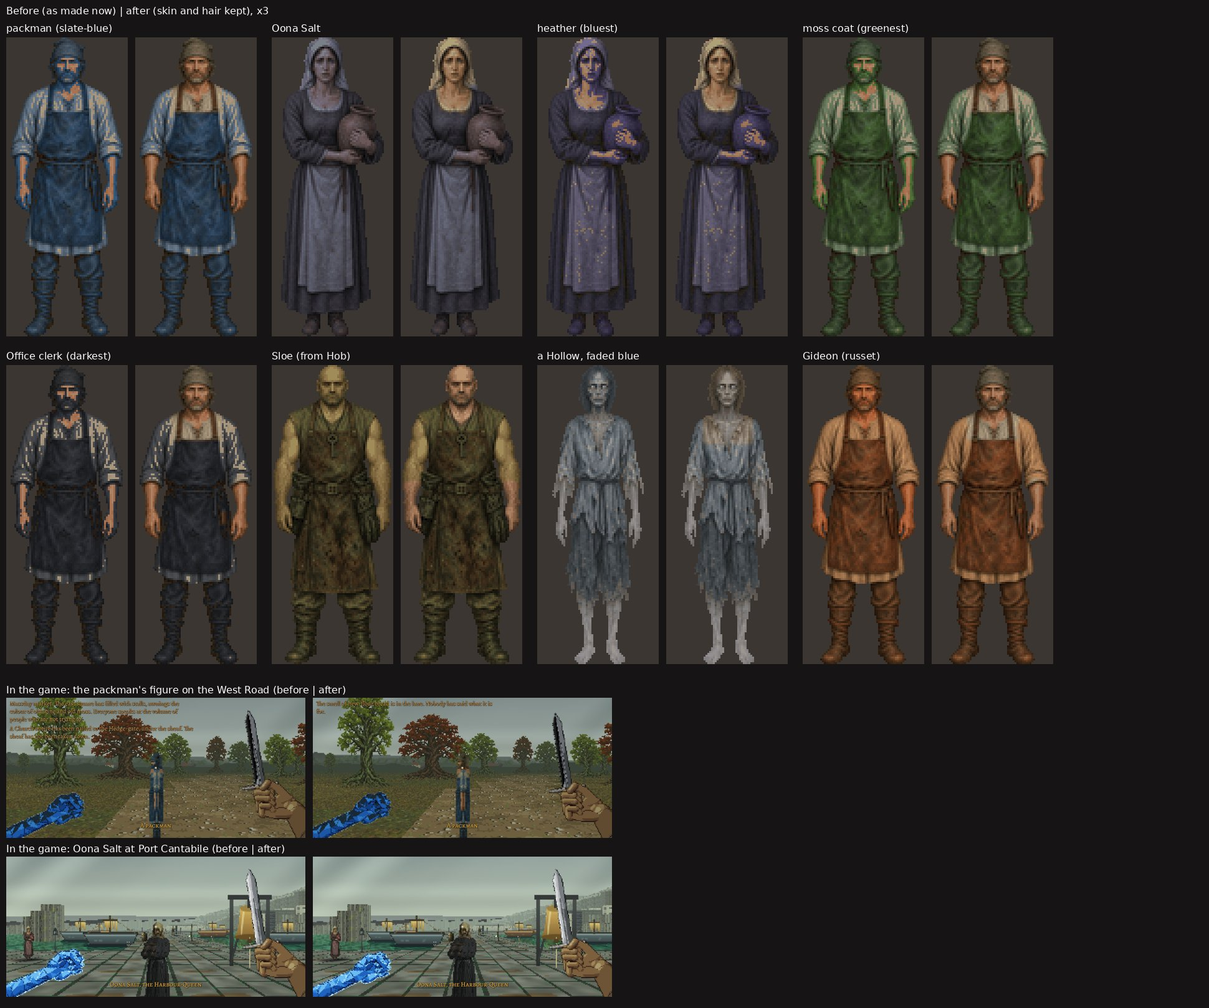
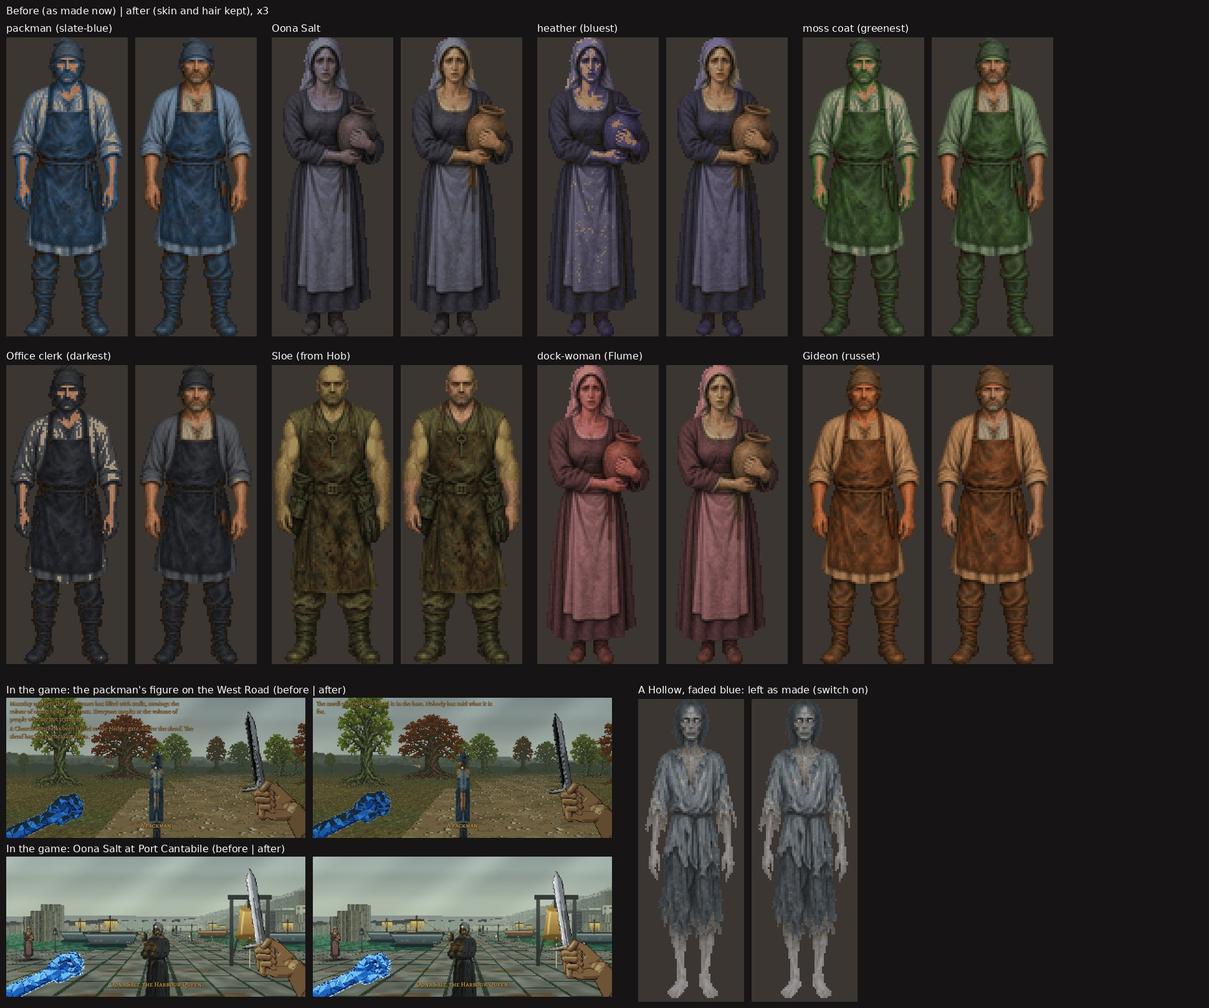
Phase 124b, second round: the Hollows left alone, headwear dyed, the jar keeps its clay, no spared specks
Claude-Session: https://claude.ai/code/session_01UK584LzooQWiw2H2iZPqku

diff --git a/js/faces124.js b/js/faces124.js
@@ -7,9 +7,9 @@
 //  and js/kestrel16.js (Pennick). A tint over the whole painting turned faces blue, green or grey. Each maker now hands
 //  its recoloured pixels to FACES124.skin(srcSprite, data) before adding the sprite: the head (face, hair and what is
 //  worn on it) and the bare skin below it (hands, arms, legs: the painting's own flesh tones, measured from its face)
-//  keep the source painting's colours; the cloth keeps its tint. A thing held in the hand whose colour is flesh-warm
-//  (the townswoman's clay jar) keeps its own colour too; leather of the same warm tone (a belt, an apron) may stay; cloth
-//  never does. The mask is measured once per source painting and reused by every recolour of it.
+//  keep the source painting's colours (the face and the hair; a kerchief or cap is dyed with the cloth); the cloth keeps
+//  its tint, whole. The townswoman's clay jar keeps its clay. The Hollows' recolours (a state of the whole figure, not
+//  dyed cloth) are left exactly as made. The mask is measured once per source painting and reused by every recolour of it.
 //  Switch: GFX.keepSkin, Options > Graphics "Recoloured people keep their skin", on by default, off in Original
 //  (PRESETS.keep). Off, every sprite is byte for byte what its maker made: the maker's own pixels are kept, and the
 //  switch swaps them back in place. Nothing here uses Math.random.
@@ -40,7 +40,16 @@ const FACES124 = (function () {
 
   // ---------------------------------------------------------------- the figure's head and its flesh, measured once
   const MASKS = new WeakMap();
+  // carried things that are plainly not cloth, by source painting: [x0, y0, x1, y1] in its pixels, and their tones
+  // the face's oval, by source painting (centre and radii in its pixels): measured on the paintings, from the cap's brim or
+  // the kerchief's edge to the chin; Hob is bald, so his is the whole head
+  const FACE = { townsman: { c: [30, 20], r: [8.5, 7] }, townswoman: { c: [24.5, 16], r: [8.5, 10.5] }, hob: { c: [25.5, 12], r: [9, 13] } };
+  const CARRIED = { townswoman: { box: [22, 32, 54, 78], hue: 22, hueR: 22, sMin: 0.26, lMin: 0.1, lMax: 0.72 } };   // her clay jar
+  // a recolour of one of these is a state of the whole person (the Hollows: faded, grey-blue), not dyed cloth: left alone
+  const STATE_SOURCES = ['hollow'];
+  function nameOf(sp) { try { if (typeof Engine !== 'undefined' && Engine.sprites) for (const k of Object.keys(Engine.sprites)) { const o = Engine.sprites[k]; if (o && o.data === sp.data) return k; } } catch (e) { /* none */ } return null; }
   function measure(sp) {
+    const name = nameOf(sp);
     const w = sp.w, h = sp.h, d = sp.data, A = (i) => d[i] >>> 24;
     let top = -1, bot = -1;
     for (let y = 0; y < h; y++) for (let x = 0; x < w; x++) if (A(y * w + x) >= 128) { if (top < 0) top = y; bot = y; break; }
@@ -74,6 +83,14 @@ const FACES124 = (function () {
     // Hollow) keeps its head and neck only: its maker already leaves grey alone, and its grey rags match grey skin.
     // (A held thing is not kept: tried, a rule for "warmer than skin, at the hands" kept the townsman's leather apron
     // in blotches and still missed the townswoman's jar, so the jar takes its owner's tint as before.)
+    // the head keeps its face (flesh) and its hair, brows and beard (darker than the lit skin, and brown), below the
+    // top third of the head where a cap sits; the kerchief or cap round them takes the dye with the rest of the cloth
+    const hairY = top + (neckY - top) * 0.3;
+    const isHair = (v) => { const c = hsl(v & 255, (v >> 8) & 255, (v >> 16) & 255); return c[2] < F.lLo + 0.02 && c[2] > 0.04 && c[1] >= 0.12 && hueDist(c[0], hue) <= 28; };   // brown: the cap's grey-green folds and the kerchief's grey shadows are not
+    // In these paintings the kerchief and the cap share the skin's hue, saturation and lightness, so colour cannot part
+    // them: where the face's oval has been measured on the painting (FACE), the oval is kept, every pixel of it (face,
+    // brows, beard and the hair framing it), and the head-cloth round it is dyed. Elsewhere, flesh and brown hair by tone.
+    const FO = name && Object.prototype.hasOwnProperty.call(FACE, name) ? FACE[name] : null;
     let rig = null; try { if (typeof PAINTFOLK !== 'undefined' && PAINTFOLK.autorig) rig = PAINTFOLK.autorig(sp); } catch (e) { rig = null; }
     const J = rig && rig.J ? rig.J : { elbowR: [hx - headW, top + H * 0.36], handR: [hx - headW, top + H * 0.52], elbowL: [hx + headW, top + H * 0.36], handL: [hx + headW, top + H * 0.52] };
     const segD = (px, py, a, b) => { const vx = b[0] - a[0], vy = b[1] - a[1], L2 = vx * vx + vy * vy || 1, t = Math.max(0, Math.min(1, ((px - a[0]) * vx + (py - a[1]) * vy) / L2)); return Math.hypot(px - a[0] - t * vx, py - a[1] - t * vy); };
@@ -82,9 +99,10 @@ const FACES124 = (function () {
     const nearHand = (x, y) => Math.hypot(x - J.handR[0], y - J.handR[1]) <= handR || Math.hypot(x - J.handL[0], y - J.handL[1]) <= handR;
     const seed = new Uint8Array(w * h);
     for (let y = 0; y < h; y++) for (let x = 0; x < w; x++) { const i = y * w + x; if (A(i) < 128) continue;
-      if (y <= neckY) { seed[i] = 1; continue; }
       const v = d[i];
-      if (isFlesh(v) && ((y <= yNeck && Math.abs(x - hx) <= headW * 0.6) || (!F.grey && (nearHand(x, y) || segD(x, y, foreR, J.handR) <= armR || segD(x, y, foreL, J.handL) <= armR)))) seed[i] = 1;
+      if (FO) { const ex = (x - FO.c[0]) / FO.r[0], ey = (y - FO.c[1]) / FO.r[1]; if (ex * ex + ey * ey <= 1) { seed[i] = 1; continue; } if (y <= neckY) continue; }
+      else if (y <= neckY) { if (isFlesh(v) || (y >= hairY && Math.abs(x - hx) <= headW * 0.6 && isHair(v))) seed[i] = 1; continue; }
+      if (isFlesh(v) && ((y <= yNeck && Math.abs(x - hx) <= headW * 0.35) || (!F.grey && (nearHand(x, y) || segD(x, y, foreR, J.handR) <= armR || segD(x, y, foreL, J.handL) <= armR)))) seed[i] = 1;
     }
     const seen = new Uint8Array(w * h), stack = [];
     const comps = (mark, keep) => { seen.fill(0); for (let i = 0; i < w * h; i++) {
@@ -95,12 +113,24 @@ const FACES124 = (function () {
       keep(comp);
     } };
     comps(seed, (comp) => { if (comp.length < 4) for (const j of comp) seed[j] = 0; });
+    // a thing carried that is plainly not cloth keeps the painting's colour: its own tones inside the box where it sits,
+    // the biggest clump there (CARRIED, measured on the painting)
+    let carried = null; const C = name && Object.prototype.hasOwnProperty.call(CARRIED, name) ? CARRIED[name] : null;
+    if (C) { carried = new Uint8Array(w * h); const mark = new Uint8Array(w * h);
+      for (let y = C.box[1]; y <= C.box[3] && y < h; y++) for (let x = C.box[0]; x <= C.box[2] && x < w; x++) { const i = y * w + x; if (A(i) < 128) continue; const v = d[i], c = hsl(v & 255, (v >> 8) & 255, (v >> 16) & 255);
+        if (hueDist(c[0], C.hue) <= C.hueR && c[1] >= C.sMin && c[2] >= C.lMin && c[2] <= C.lMax) mark[i] = 1; }
+      let best = null; seen.fill(0);
+      for (let i = 0; i < w * h; i++) { if (!mark[i] || seen[i]) continue; const comp = []; stack.push(i); seen[i] = 1;
+        while (stack.length) { const j = stack.pop(); comp.push(j); const x = j % w, y = (j / w) | 0; for (let dy = -1; dy <= 1; dy++) for (let dx = -1; dx <= 1; dx++) { const xx = x + dx, yy = y + dy; if (xx < 0 || yy < 0 || xx >= w || yy >= h) continue; const k = yy * w + xx; if (mark[k] && !seen[k]) { seen[k] = 1; stack.push(k); } } }
+        if (!best || comp.length > best.length) best = comp; }
+      if (best && best.length >= 60) for (const j of best) { carried[j] = 1; seed[j] = 1; } else carried = null;
+    }
     // grown by one pixel and smoothed (3 by 3), so no fringe of tinted pixels is left round a face or at a cuff
     const grown = new Float32Array(w * h);
     for (let y = 0; y < h; y++) for (let x = 0; x < w; x++) { let m = 0; for (let dy = -1; dy <= 1 && !m; dy++) for (let dx = -1; dx <= 1; dx++) { const xx = x + dx, yy = y + dy; if (xx >= 0 && yy >= 0 && xx < w && yy < h && seed[yy * w + xx]) { m = 1; break; } } grown[y * w + x] = m; }
     const wt = new Float32Array(w * h);
     for (let y = 0; y < h; y++) for (let x = 0; x < w; x++) { let s = 0, c = 0; for (let dy = -1; dy <= 1; dy++) for (let dx = -1; dx <= 1; dx++) { const xx = x + dx, yy = y + dy; if (xx < 0 || yy < 0 || xx >= w || yy >= h) continue; s += grown[yy * w + xx] * (dx || dy ? 1 : 2); c += dx || dy ? 1 : 2; } wt[y * w + x] = seed[y * w + x] ? 1 : Math.min(1, (s / c) * 1.5); }
-    return { w, h, top, bot, neckY, hx, headW, flesh: F, isFlesh, seed, wt, hands: [J.handR, J.handL], holding };
+    return { w, h, top, bot, neckY, hx, headW, flesh: F, isFlesh, isHair, seed, wt, carried, faceOval: FO, hands: [J.handR, J.handL], holding };
   }
   // keyed by the pixels, not the sprite: a painting that arrives later replaces a sprite's pixels, and is measured afresh
   function maskOf(sp) { if (!sp || !sp.data) return null; let m = MASKS.get(sp.data); if (m === undefined) { const t0 = now(); try { m = measure(sp); } catch (e) { warnOnce('measure', e); m = null; } stats.ms += now() - t0; stats.masks++; MASKS.set(sp.data, m); } return m; }
@@ -113,7 +143,7 @@ const FACES124 = (function () {
   const REG = [];
   function keptOf(e) {
     if (e.kept) return e.kept;
-    const m = maskOf(e.from), out = new Uint32Array(e.tinted);
+    const m = maskOf(e.from), out = new Uint32Array(e.base);
     if (m && m.w === e.from.w && m.h === e.from.h) {
       const s = e.from.data;
       for (let i = 0; i < out.length; i++) { const k = m.wt[i]; if (k <= 0) continue; const a = out[i] >>> 24; if (!a) continue; const p = out[i], q = s[i];
@@ -123,11 +153,15 @@ const FACES124 = (function () {
     }
     return (e.kept = out);
   }
-  function skin(src, data, name) {
+  // whole (optional): the maker's tint with nothing spared by colour (js/life60.js spares flesh-coloured pixels by colour,
+  // which left orange specks in the cloth); used as the cloth when the switch is on. data stays the maker's own when off.
+  function skin(src, data, name, whole) {
     try {
       if (!src || !src.data || !data || data.length !== src.data.length) return data;
+      if (typeof Engine !== 'undefined' && Engine.sprites && STATE_SOURCES.some((k) => Engine.sprites[k] === src)) return data;
       const t0 = now();
-      const e = { src, from: { w: src.w, h: src.h, data: src.data }, data, tinted: new Uint32Array(data), kept: null, name: name || null };   // the pixels the maker read
+      const e = { src, from: { w: src.w, h: src.h, data: src.data }, data, tinted: new Uint32Array(data), kept: null, name: name || null };
+      e.base = whole && whole.length === data.length ? new Uint32Array(whole) : e.tinted;   // the pixels the maker read
       REG.push(e); stats.recolours++;
       e.isKept = on(); if (e.isKept) data.set(keptOf(e));
       stats.applyMs += now() - t0;
@@ -180,6 +214,6 @@ const FACES124 = (function () {
   }
   try { wireRow(); } catch (e) { warnOnce('wire', e); }
 
-  return { FLAG, ROW, skin, maskOf, hsl, hueDist, on, sync, recolours: () => REG.map((e) => ({ name: e.name, src: e.src, from: e.from, data: e.data, tinted: e.tinted })), stats: () => Object.assign({}, stats) };
+  return { FLAG, ROW, skin, maskOf, hsl, hueDist, on, sync, recolours: () => REG.map((e) => ({ name: e.name, src: e.src, from: e.from, data: e.data, tinted: e.tinted, base: e.base })), stats: () => Object.assign({}, stats) };
 })();
 if (typeof window !== 'undefined') window.FACES124 = FACES124;

diff --git a/tools/dev/skin124-sheet.js b/tools/dev/skin124-sheet.js
@@ -2,7 +2,7 @@
 // own pixels, and the kept skin) and two in-game frames each way to the folder given. Run through browser.sh.
 const { chromium } = require('/opt/npm-tools/node_modules/playwright');
 const fs = require('fs'), path = require('path');
-const FIGS = ['p60_man_a', 'p17c_oona', 'p60_wom_c', 'p60_man_b', 'p61_clerk', 'p17c_sloe', 'p62_hollow_b', 'p22_gideon'];
+const FIGS = ['p60_man_a', 'p17c_oona', 'p60_wom_c', 'p60_man_b', 'p61_clerk', 'p17c_sloe', 'p16f_dockwoman', 'p22_gideon', 'p62_hollow_b'];
 (async () => {
   const OUT = process.argv[2] || '/home/claude/army124/F/shots/skin'; fs.mkdirSync(OUT, { recursive: true });
   const browser = await chromium.launch({ headless: true, args: ['--no-sandbox'] });
@@ -20,7 +20,7 @@ const FIGS = ['p60_man_a', 'p17c_oona', 'p60_wom_c', 'p60_man_b', 'p61_clerk', '
     G.day = 4; G.tod = 0.5; tryLoad('oakhaven'); for (const id of ['cantabile_harbour', 'flume_landing', 'whispergrove', 'p22_combe', 'oakhaven']) tryLoad(id);
     G.day = 3; tryLoad('oakhaven'); const reg = FACES124.recolours(), png = (w, h, data) => { const c = document.createElement('canvas'); c.width = w; c.height = h; c.getContext('2d').putImageData(new ImageData(new Uint8ClampedArray(data.buffer.slice(0)), w, h), 0, 0); return c.toDataURL('image/png'); };
     const out = {};
-    for (const n of FIGS) { const sp = Engine.sprites[n]; if (!sp) continue; const e = reg.find((x) => x.data === sp.data); out[n] = { before: png(sp.w, sp.h, e.tinted), after: png(sp.w, sp.h, sp.data) }; }
+    for (const n of FIGS) { const sp = Engine.sprites[n]; if (!sp) continue; const e = reg.find((x) => x.data === sp.data); out[n] = { before: png(sp.w, sp.h, e ? e.tinted : sp.data), after: png(sp.w, sp.h, sp.data) }; /* not helped (the Hollows): as made */ }
     return out;
   }, FIGS);
   for (const [n, v] of Object.entries(figs)) for (const k of ['before', 'after']) fs.writeFileSync(path.join(OUT, n + '_' + k + '.png'), Buffer.from(v[k].split(',')[1], 'base64'));

diff --git a/test/skin124.test.js b/test/skin124.test.js
@@ -80,7 +80,8 @@ const STATES = [['p62_hollow_a', 30, 0.55, 0.92], ['p62_hollow_b', 205, 0.45, 0.
       for (let i = 0; i < src.data.length; i++) {
         const q = src.data[i]; if ((q >>> 24) < 200) continue; const y = (i / w) | 0, x = i % w, v = sp.data[i];
         if ((v >>> 24) < 100) continue;   // a maker may drop faint pixels: not a face pixel any more
-        if (y >= y0 && y < m.neckY && Math.abs(x - m.hx) <= m.headW * 0.28 && m.isFlesh(q)) { face++; if (!m.isFlesh(v)) faceBad++; }
+        const FO = m.faceOval, inFace = FO ? (((x - FO.c[0]) / FO.r[0]) ** 2 + ((y - FO.c[1]) / FO.r[1]) ** 2 <= 0.8) : (y >= y0 && y < m.neckY && Math.abs(x - m.hx) <= m.headW * 0.28);   // the face's measured oval where there is one
+        if (inFace && m.isFlesh(q)) { face++; if (!m.isFlesh(v)) faceBad++; }
         else if (y > m.neckY + H * 0.05 && m.seed[i] && m.isFlesh(q)) { hand++; if (!m.isFlesh(v)) handBad++; }
         else if (m.wt[i] === 0 && y <= m.neckY) { worn++; if (v !== base[i]) wornLost++; }   // the kerchief or cap: dyed with the rest
         else if (m.wt[i] === 0) { cloth++; if ((base[i] & 0xffffff) !== (q & 0xffffff)) clothChanged++; if (v !== base[i]) clothLost++; if ((v & 0xffffff) === (q & 0xffffff) && (base[i] & 0xffffff) !== (q & 0xffffff) && m.isFlesh(q)) specks++; }
@@ -163,7 +164,7 @@ const STATES = [['p62_hollow_a', 30, 0.55, 0.92], ['p62_hollow_b', 205, 0.45, 0.
   await step('the cost: measuring a source painting\'s mask is under 40 ms each, and all of them under 200 ms', async () => {
     const s = await page.evaluate(() => { for (const e of FACES124.recolours()) FACES124.maskOf(e.from); return FACES124.stats(); });
     console.log('  cost: ' + JSON.stringify(s));
-    assert.ok(s.masks >= 4 && s.ms / s.masks < 40 && s.ms < 200, JSON.stringify(s));
+    assert.ok(s.masks >= 3 && s.ms / s.masks < 40 && s.ms < 200, JSON.stringify(s));
   });
 
   await browser.close();

diff --git a/js/life60.js b/js/life60.js
@@ -50,16 +50,17 @@ const LIFE60 = (function () {
   function variant(src, dst, hueTo, satK, litK) {
     try {
       const s = Engine.sprites[src]; if (!s || Engine.sprites[dst]) return;
-      const d = new Uint32Array(s.data.length);
+      const d = new Uint32Array(s.data.length), all = typeof FACES124 !== 'undefined' ? new Uint32Array(s.data.length) : null;   // all: the tint with no flesh spared (Phase 124b)
       for (let i = 0; i < d.length; i++) {
-        const v = s.data[i], a = v >>> 24; if (!a) { d[i] = v; continue; }
+        const v = s.data[i], a = v >>> 24; if (!a) { d[i] = v; if (all) all[i] = v; continue; }
         const r = v & 255, g = (v >> 8) & 255, b = (v >> 16) & 255, [h, sa, l] = hsl(r, g, b);
         const skin = h >= 8 && h <= 42 && sa > 0.18 && sa < 0.75 && l > 0.42 && l < 0.86;
-        if (skin || l < 0.14 || sa < 0.08) { d[i] = v; continue; }
-        const [R, Gc, B] = rgb(hueTo, Math.min(1, sa * satK), Math.min(0.92, l * litK));
-        d[i] = (a << 24) | (B << 16) | (Gc << 8) | R;
+        if (l < 0.14 || sa < 0.08) { d[i] = v; if (all) all[i] = v; continue; }
+        if (skin && !all) { d[i] = v; continue; }
+        const [R, Gc, B] = rgb(hueTo, Math.min(1, sa * satK), Math.min(0.92, l * litK)), t = (a << 24) | (B << 16) | (Gc << 8) | R;
+        d[i] = skin ? v : t; if (all) all[i] = t;
       }
-      if (typeof FACES124 !== 'undefined') FACES124.skin(s, d, dst);   // Phase 124b: the skin and hair keep the painting's own colours
+      if (typeof FACES124 !== 'undefined') FACES124.skin(s, d, dst, all);   // Phase 124b: the skin and hair keep the painting's own colours
       Engine.addSprite(dst, Object.assign({}, s, { data: d }));
     } catch (e) { warnOnce('variant', e); }
   }

diff --git a/sw.js b/sw.js
@@ -18,7 +18,7 @@
 //
 // <precache:begin>
 // Generated by tools/pwa/precache.js from index.html and the asset folders. Do not edit by hand; run the tool.
-const BUILD = "671e558082d0";
+const BUILD = "c72a981eddc7";
 const MEDIA_BUILD = "2d9813dfeb89";
 const MEDIA_BYTES = 475230917;
 const CORE = [
@@ -243,7 +243,7 @@ const CORE = [
   "js/epigraphs73.js?v=2",
   "js/epilogue.js?v=33",
   "js/extras17.js?v=8",
-  "js/faces124.js?v=2",
+  "js/faces124.js?v=3",
   "js/far14.js?v=1",
   "js/feel88.js?v=4",
   "js/festivals12.js?v=4",
@@ -296,7 +296,7 @@ const CORE = [
   "js/library26-books.js?v=4",
   "js/library26.js?v=4",
   "js/life60-oakhaven.js?v=1",
-  "js/life60.js?v=7",
+  "js/life60.js?v=8",
   "js/life62-whispergrove.js?v=5",
   "js/life64-cantabile.js?v=1",
   "js/life74-smallplaces.js?v=1",

diff --git a/index.html b/index.html
@@ -249,7 +249,7 @@
   <script src="js/tobiah57.js?v=1"></script>
   <script src="js/pumps58.js?v=1"></script>
   <script src="js/conservatory59.js?v=1"></script>
-  <script src="js/life60.js?v=7"></script>
+  <script src="js/life60.js?v=8"></script>
   <script src="js/life60-oakhaven.js?v=1"></script>
   <script src="js/malting61.js?v=6"></script>
   <script src="js/life62-whispergrove.js?v=5"></script>
@@ -306,7 +306,7 @@
   <script src="js/deepsky113.js?v=7"></script>
   <script src="js/fold113.js?v=12"></script>
   <script src="js/roofs116.js?v=17"></script>
-  <script src="js/faces124.js?v=2"></script>
+  <script src="js/faces124.js?v=3"></script>
   <script src="js/owntopics96.js?v=1"></script>
   <script src="js/compass97.js?v=1"></script>
   <script src="js/places97.js?v=5"></script>

diff --git a/story/Game Layer/Phase 124b - The recoloured townsfolk keep their skin.md b/story/Game Layer/Phase 124b - The recoloured townsfolk keep their skin.md
@@ -27,7 +27,11 @@ poses, a change of shape); `js/folk14.js` `variant` (sway, seat and hood, change
 the townsman's painting exists, and it is not called again. It now goes through the same helper (one line, guarded), so
 if it is ever made later it keeps its skin, but there is nothing to see or test today. It is left as found and noted here.
 
-Total: 39 recolours made in a started game, all now through the helper.
+Total: 39 recolours made in a started game. **36 go through the helper.** The three Hollows (`p62_hollow_a/b/c`, from
+`js/life62-whispergrove.js` through `LIFE60.variant`) are left out. Their colour is a state of the whole person, faded
+and grey-blue, not dyed cloth, so they stay exactly as their maker makes them, switch on or off (the helper skips any
+recolour of the `hollow` painting). No other recolour in the survey is spectral, drowned, frozen, faded or dead: the
+Cantabile, Flume, Long Night, Sheepwalk, market and road people are all living people in dyed clothes.
 
 ## 2. What changed
 
@@ -37,8 +41,12 @@ Total: 39 recolours made in a started game, all now through the helper.
   kept-skin version is written into the same array, so turning the switch swaps them in place.
 - The mask is measured once per source painting, keyed by its pixel array (a painting that arrives later replaces the
   sprite's pixels and is measured again):
-  - **The head**, from the top of the figure to the narrowest row between 9% and 20% of its height (the neck, as the
-    Phase 76 autorig finds it), keeps every pixel: face, hair, and what is worn on the head.
+  - **The face and hair** keep the painting's colours. **The kerchief or cap is dyed with the cloth.** In these
+    paintings the kerchief and the cap have the same hue, saturation and lightness as the skin, so colour cannot separate
+    them. The face's oval is measured on each source painting instead: townsman centre (30, 20), radii 8.5 by 7, from
+    the cap's brim to the chin; townswoman (24.5, 16), radii 8.5 by 10.5, inside the kerchief, taking in the dark hair
+    that frames her face; Hob (25.5, 12), radii 9 by 13, the whole head, since he is bald. Every pixel inside the oval is
+    kept (face, brows, beard, hair). A source with no measured oval keeps the flesh and brown-hair tones of its head.
   - **Flesh** is measured from the lit middle of the face (the darkest quarter, which is brow, beard or hair, is left
     out): hue, saturation and lightness ranges.
   - **Below the neck**, flesh colour alone cannot tell these paintings' skin from their linen, brown wool and leather (a
@@ -48,10 +56,15 @@ Total: 39 recolours made in a started game, all now through the helper.
   - **A grey-skinned figure** (the Hollow) keeps its head and neck only: its maker already leaves grey alone, and its grey
     rags match its grey skin.
   - The mask is grown by one pixel and smoothed (3 by 3), so no tinted fringe is left round a face or at a cuff.
-- **Judgement calls.** The head-cloth, cap or kerchief is kept with the head (above the neck), so the townswoman's
-  recolours now share her cream kerchief. Leather (aprons, belts) takes the tint, as before. **The townswoman's clay jar
-  still takes her dress's tint:** a rule to keep "a thing warmer than skin, at the hands" kept the townsman's leather
-  apron in blotches and still missed the jar, so I took it out. This is not solved.
+- **Carried things.** The townswoman's clay jar keeps its clay in every recolour of her. It is masked once: the biggest
+  clump of terracotta tones (hue about 22, saturation 0.26 or more) inside the box where it sits (22,32 to 54,78 in her
+  painting), grown and smoothed like the rest. That is the only carried thing in the three source paintings that is
+  plainly not cloth: the townsman's hands are empty, and Hob's pouches, belt and key are leather, so they take the tint.
+  Leather aprons and belts take the tint, as before.
+- **No spared specks.** `js/life60.js variant()` spared every flesh-coloured pixel by colour, which left orange specks of
+  stain in the dyed cloth (the heather apron). It now also makes the tint with nothing spared and hands both to the
+  helper. With the switch on, the cloth is that whole tint and the rig-placed mask does the sparing; with it off, the
+  sprite is the old one, byte for byte. The other makers multiply the whole figure and never spared anything.
 - **Switch:** `GFX.keepSkin`, Options > Graphics, "Recoloured people keep their skin" (small print: "townsfolk dressed in
   other colours keep their own faces, hands and hair"); on by default; off in Original, through `PRESETS.keep` (as
   `js/deepsky113.js` does). French in `tools/i18n/p124-skin.tsv`, merged. With it off, every recolour is byte for byte
@@ -61,8 +74,8 @@ Total: 39 recolours made in a started game, all now through the helper.
 
 ## 3. Cost
 
-Measuring a source painting: about 6 ms each, four sources (townsman, townswoman, hob, hollow), about 25 ms in all, once
-per session. Applying it to the 39 recolours: about 1 ms each, about 40 ms in all. Both happen when a maker runs (when
+Measuring a source painting: about 8 ms each, three sources (townsman, townswoman, hob), about 25 ms in all, once
+per session. Applying it to the 36 recolours: about 1 ms each, about 31 ms in all. Both happen when a maker runs (when
 its place is built or entered), not at start-up.
 
 ## 4. Tests and pictures
@@ -72,14 +85,16 @@ its place is built or entered), not at start-up.
   range; the cloth keeps its maker's tint exactly; off is byte for byte; Original off, High on; French present; no
   `Math.random`; the cost.
 - Sheet: `screenshots/p124-skin.jpg`. Eight figures before and after, enlarged three times (the packman, Oona Salt,
-  the bluest, the greenest, the darkest, Sloe from Hob, a Hollow, Gideon), and the packman's figure on the West Road and
+  the bluest, the greenest, the darkest, Sloe from Hob, the Flume dock-woman, Gideon, and a Hollow left as made), and the packman's figure on the West Road and
   Oona Salt at Port Cantabile in the game, before and after.
+
+Second round (the Commander's review): the Hollows left alone; headwear dyed; the jar's clay; no spared specks.
+Checks for all four were committed first and failed, then passed (skin124: 12 of 12). The sheet now shows the Flume
+dock-woman in place of the Hollow, and a small panel of a Hollow unchanged with the switch on.
 
 ## 5. What is left
 
-- The townswoman's jar takes the tint (above).
-- `life60.variant`'s old skin guard leaves odd flesh-coloured specks in the cloth (the orange dots on the heather and
-  madder aprons). They are the maker's own pixels and are unchanged here.
 - Pennick (above).
-- The townswoman's recolours now all wear her cream kerchief. If they should keep their tinted head-cloths, the head rule
-  needs a hair-or-cloth split above the neck.
+- The face ovals and the jar's box are measured by hand on three paintings. A new source painting needs its own (without
+  one it falls back to flesh and brown-hair tones in the head, which keeps a kerchief whose colour is close to skin).
+- A little of the townsman's linen collar at the neck opening stays undyed, because linen and skin share a tone there.
